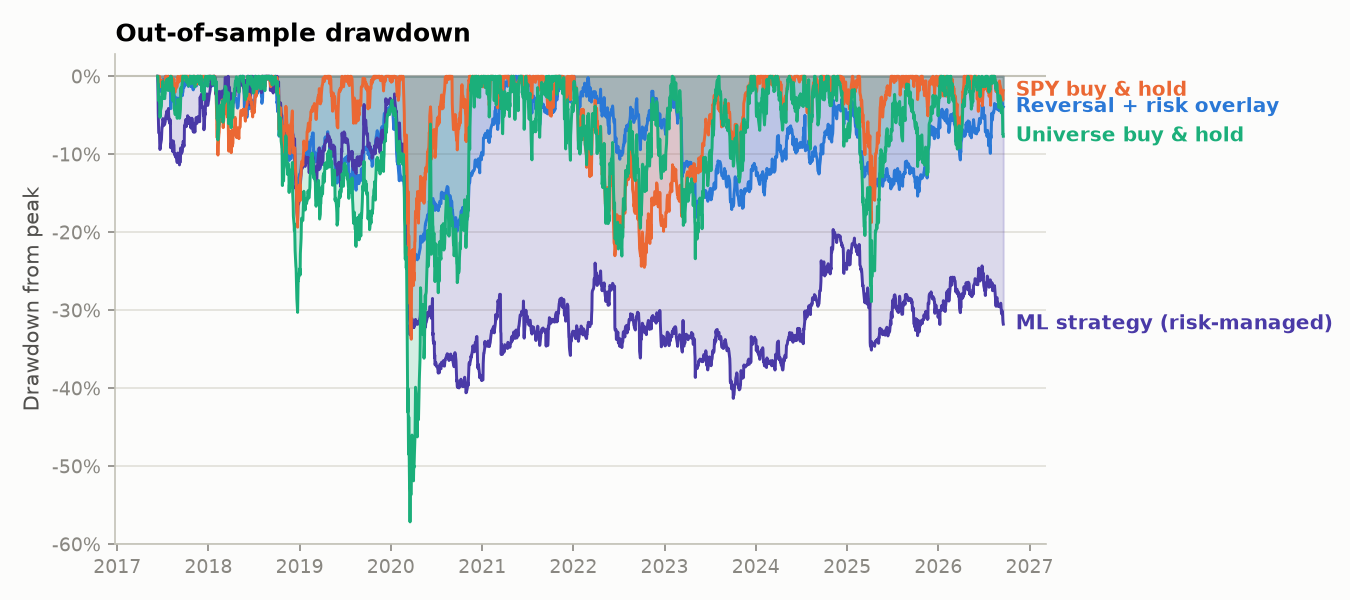
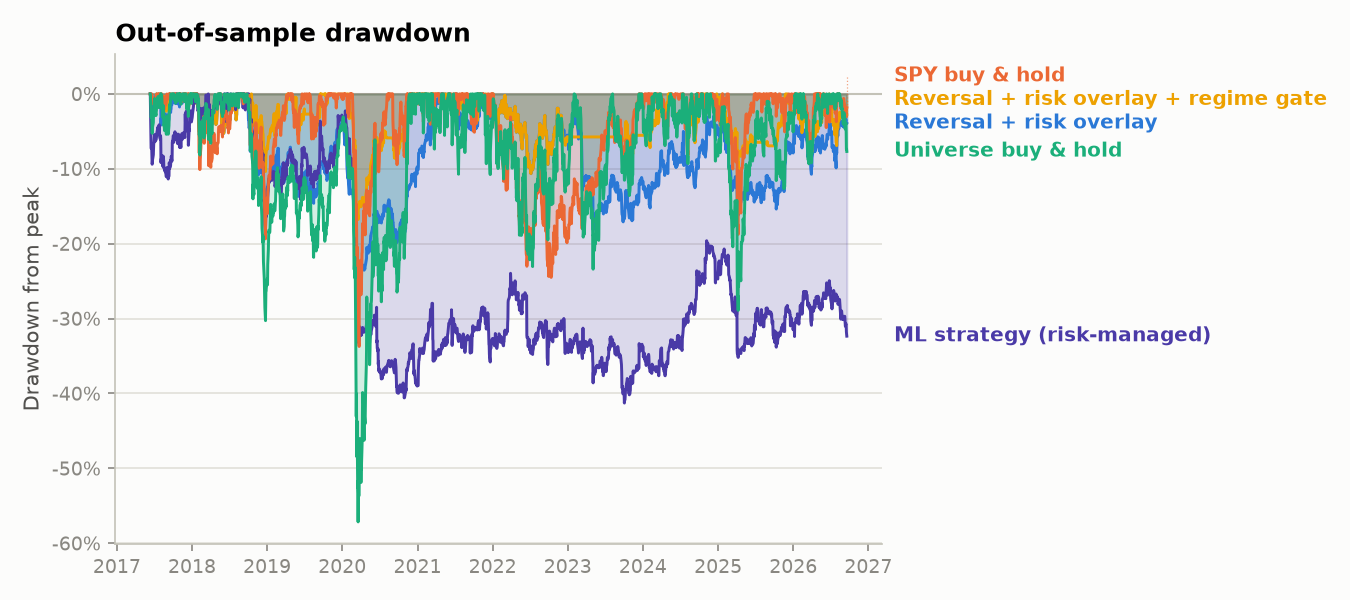
Fix chart label declutter and a real axis-corruption bug in plots.py
Two labels ending close together (e.g. SPY buy & hold and the regime-gated
reversal strategy both near 0% drawdown) were overlapping -- a real
anti-pattern, not cosmetic, since an unreadable label is a chart that
misreports its own comparison. Added _end_labels_decluttered: end-of-line
labels are now placed at a fixed x just past the plot's right edge (axes-
fraction coordinates) with y positions spread apart in data coordinates
when they'd otherwise collide, with a thin leader line back to each
series' true endpoint when a label had to move.

First implementation of the leader line introduced a genuine bug, caught
by looking at the rendered output rather than just running the code: it
mixed a raw `ax.get_xlim()` float (matplotlib's internal date-axis
numbering) with a datetime x-value in the same plot call, which corrupted
the ENTIRE x-axis scale -- the drawdown chart's date axis silently
stretched from 2017-2027 to 1970-2027. Fixed by drawing the leader as a
purely vertical stub at the line's own true x (a single, consistently-
typed datetime), never introducing a second x value of a different type.

Regenerated all plots with this fix plus the current pipeline state
(regime-gated reversal as Strategy 1e, deep learning as Strategy 4e) --
new regime_window_sharpe.png, updated equity_curves/drawdown/
rolling_sharpe with the regime-gated series added.

diff --git a/src/plots.py b/src/plots.py
@@ -22,6 +22,7 @@ from pathlib import Path
 import matplotlib
 matplotlib.use("Agg")
 import matplotlib.pyplot as plt
+import matplotlib.transforms as transforms
 import numpy as np
 import pandas as pd
 
@@ -63,6 +64,43 @@ def _end_label(ax, x, y, text, color):
                 va="center", ha="left", fontsize=9.5, color=color, fontweight="bold")
 
 
+def _end_labels_decluttered(ax, entries: list[tuple[float, float, str, str]], min_gap_frac: float = 0.05) -> None:
+    """Place end-of-line labels at a fixed x (just past the right edge, in
+    axes-fraction coordinates) with y positions decluttered in DATA
+    coordinates so labels for series whose lines end close together don't
+    overlap -- e.g. two strategies both ending near a 0% drawdown. Each
+    label keeps a thin leader line back to its series' true end point when
+    the label had to move.
+
+    `entries`: list of (x_end, y_end, text, color).
+    """
+    if not entries:
+        return
+    ylo, yhi = ax.get_ylim()
+    min_gap = (yhi - ylo) * min_gap_frac
+
+    ordered = sorted(range(len(entries)), key=lambda i: entries[i][1])
+    adjusted = [entries[i][1] for i in ordered]
+    for k in range(1, len(adjusted)):
+        if adjusted[k] - adjusted[k - 1] < min_gap:
+            adjusted[k] = adjusted[k - 1] + min_gap
+
+    trans = transforms.blended_transform_factory(ax.transAxes, ax.transData)
+    for k, i in enumerate(ordered):
+        x_end, y_end, text, color = entries[i]
+        y_label = adjusted[k]
+        ax.annotate(text, xy=(1.0, y_label), xycoords=trans, xytext=(6, 0),
+                    textcoords="offset points", va="center", ha="left",
+                    fontsize=9.5, color=color, fontweight="bold")
+        if abs(y_label - y_end) > min_gap * 0.2:
+            # Vertical stub at the line's own true x (never introduce a
+            # second, differently-typed x value here -- mixing a raw
+            # ax.get_xlim() float with a datetime x_end previously corrupted
+            # the whole axis's date scaling).
+            ax.plot([x_end, x_end], [y_end, y_label], color=color,
+                    linewidth=0.6, linestyle=":", alpha=0.6, zorder=4, clip_on=False)
+
+
 def plot_equity_curves(series_dict: dict[str, pd.Series], title: str, out_path: Path) -> None:
     """series_dict: label -> daily return Series (not yet cumulated). All
     series are reindexed to their common date range before cumulating so
@@ -72,15 +110,17 @@ def plot_equity_curves(series_dict: dict[str, pd.Series], title: str, out_path: 
     common = None
     for s in series_dict.values():
         common = s.index if common is None else common.intersection(s.index)
+    label_entries = []
     for label, returns in series_dict.items():
         color = _COLOR_MAP.get(label, INK_SECONDARY)
         equity = (1 + returns.loc[common]).cumprod()
         ax.plot(equity.index, equity.values, color=color, linewidth=1.8, zorder=3)
-        _end_label(ax, equity.index[-1], equity.values[-1], label, color)
+        label_entries.append((equity.index[-1], equity.values[-1], label, color))
     ax.axhline(1.0, color=BASELINE, linewidth=1.0, linestyle="--", zorder=1)
     ax.set_title(title, fontsize=12, fontweight="bold", loc="left")
     ax.set_ylabel("Growth of $1")
     _style_axes(ax)
+    _end_labels_decluttered(ax, label_entries)
     fig.tight_layout()
     fig.savefig(out_path, facecolor=SURFACE)
     plt.close(fig)
@@ -91,18 +131,20 @@ def plot_drawdown(series_dict: dict[str, pd.Series], title: str, out_path: Path)
     common = None
     for s in series_dict.values():
         common = s.index if common is None else common.intersection(s.index)
+    label_entries = []
     for label, returns in series_dict.items():
         color = _COLOR_MAP.get(label, INK_SECONDARY)
         equity = (1 + returns.loc[common]).cumprod()
         drawdown = equity / equity.cummax() - 1.0
         ax.fill_between(drawdown.index, drawdown.values, 0, color=color, alpha=0.18, zorder=2)
         ax.plot(drawdown.index, drawdown.values, color=color, linewidth=1.4, zorder=3)
-        _end_label(ax, drawdown.index[-1], drawdown.values[-1], label, color)
+        label_entries.append((drawdown.index[-1], drawdown.values[-1], label, color))
     ax.axhline(0.0, color=BASELINE, linewidth=1.0, zorder=1)
     ax.set_title(title, fontsize=12, fontweight="bold", loc="left")
     ax.set_ylabel("Drawdown from peak")
     ax.yaxis.set_major_formatter(lambda v, _: f"{v:.0%}")
     _style_axes(ax)
+    _end_labels_decluttered(ax, label_entries)
     fig.tight_layout()
     fig.savefig(out_path, facecolor=SURFACE)
     plt.close(fig)
@@ -113,6 +155,7 @@ def plot_rolling_sharpe(series_dict: dict[str, pd.Series], window: int, title: s
     common = None
     for s in series_dict.values():
         common = s.index if common is None else common.intersection(s.index)
+    label_entries = []
     for label, returns in series_dict.items():
         color = _COLOR_MAP.get(label, INK_SECONDARY)
         r = returns.loc[common]
@@ -120,11 +163,12 @@ def plot_rolling_sharpe(series_dict: dict[str, pd.Series], window: int, title: s
         ax.plot(rolling_sharpe.index, rolling_sharpe.values, color=color, linewidth=1.5, zorder=3)
         valid = rolling_sharpe.dropna()
         if len(valid):
-            _end_label(ax, valid.index[-1], valid.values[-1], label, color)
+            label_entries.append((valid.index[-1], valid.values[-1], label, color))
     ax.axhline(0.0, color=BASELINE, linewidth=1.0, zorder=1)
     ax.set_title(title, fontsize=12, fontweight="bold", loc="left")
     ax.set_ylabel(f"Rolling {window}-day annualized Sharpe")
     _style_axes(ax)
+    _end_labels_decluttered(ax, label_entries)
     fig.tight_layout()
     fig.savefig(out_path, facecolor=SURFACE)
     plt.close(fig)
